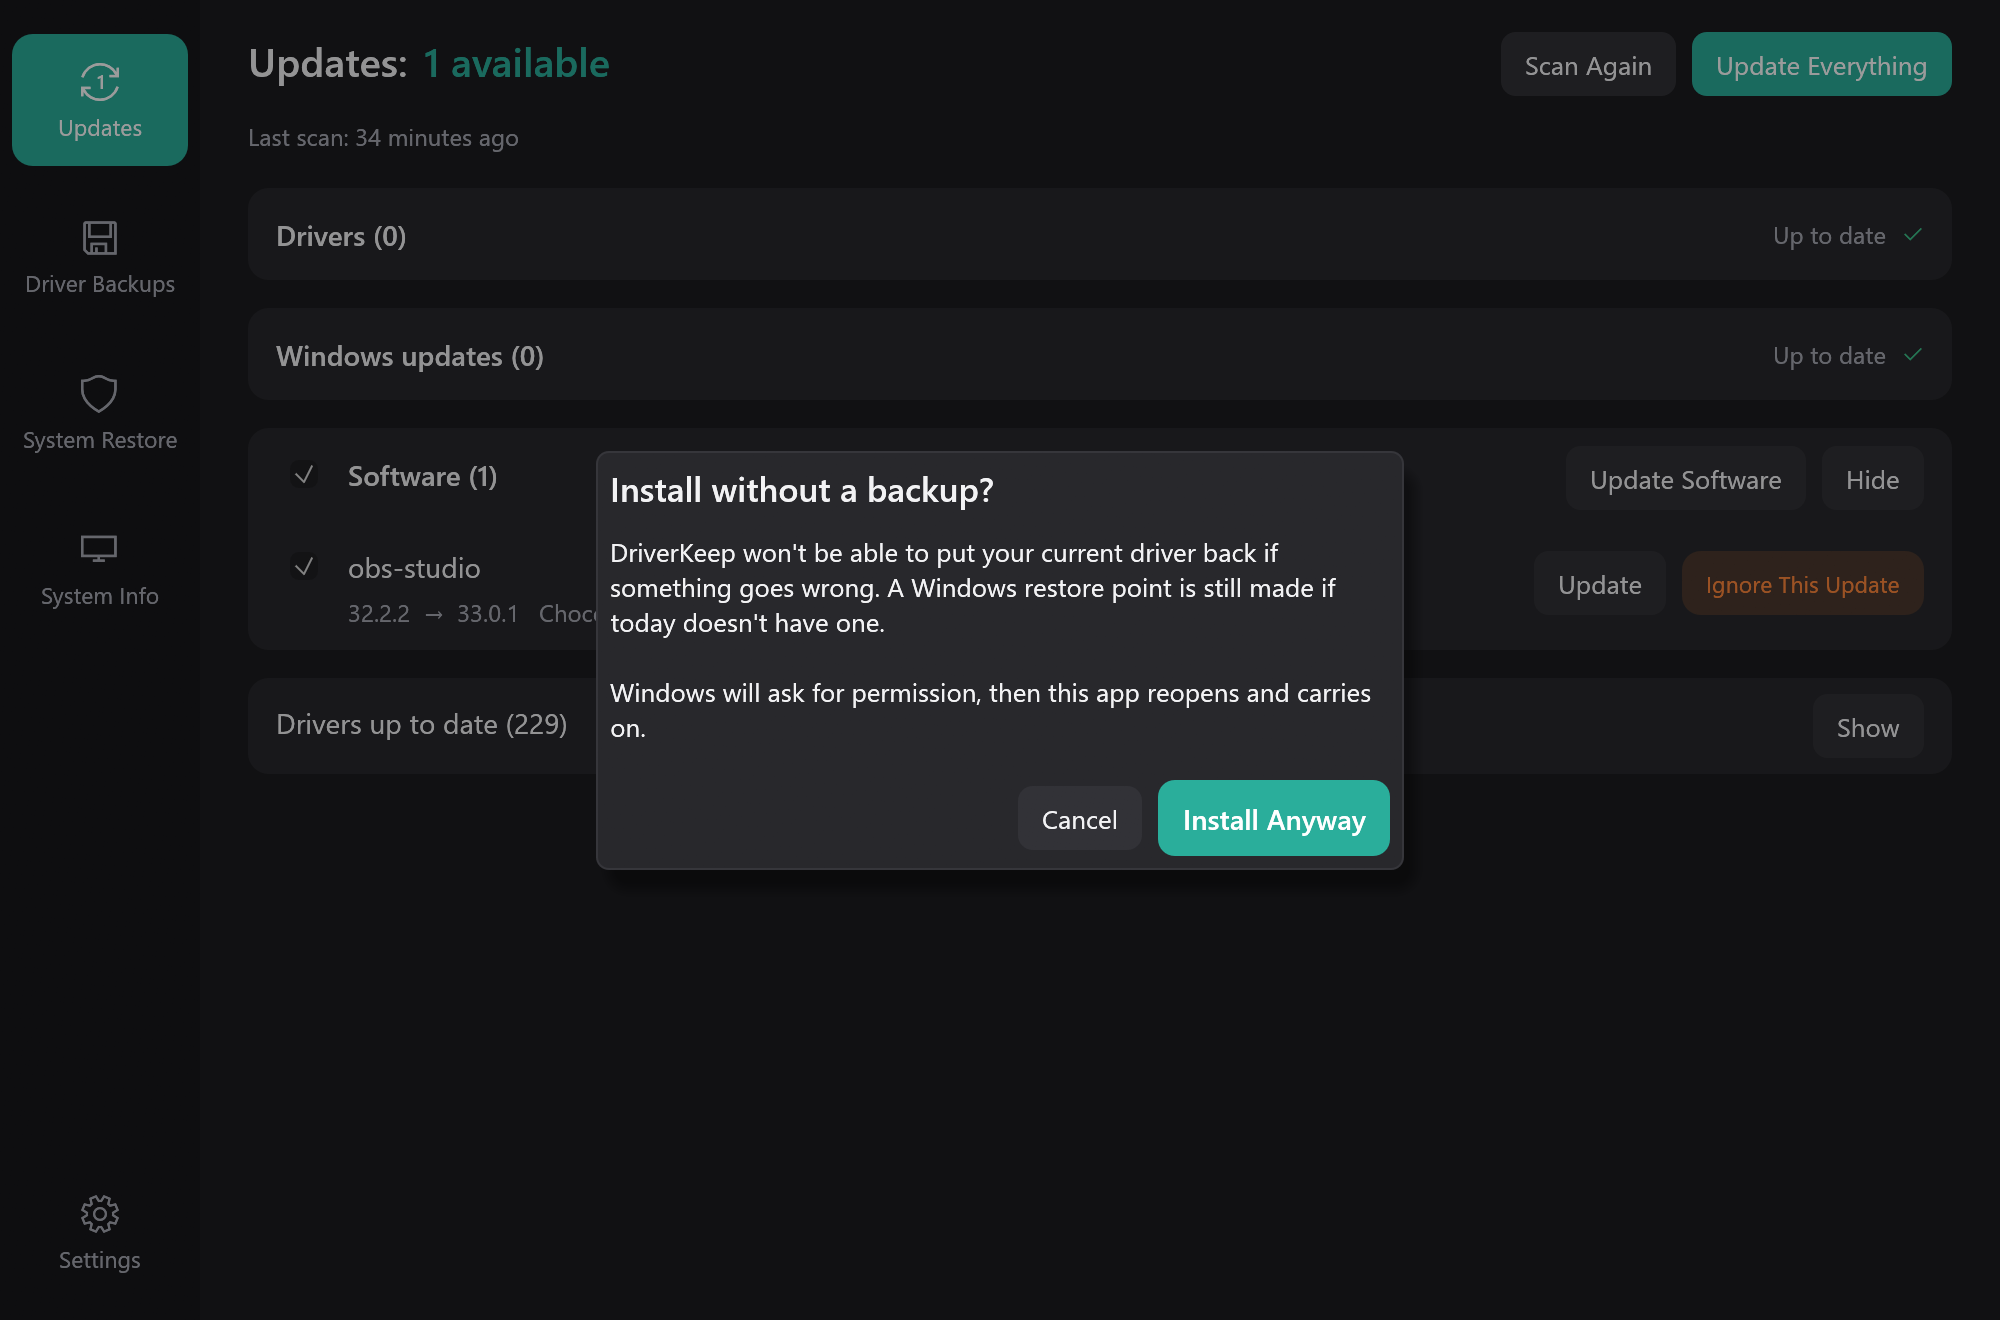
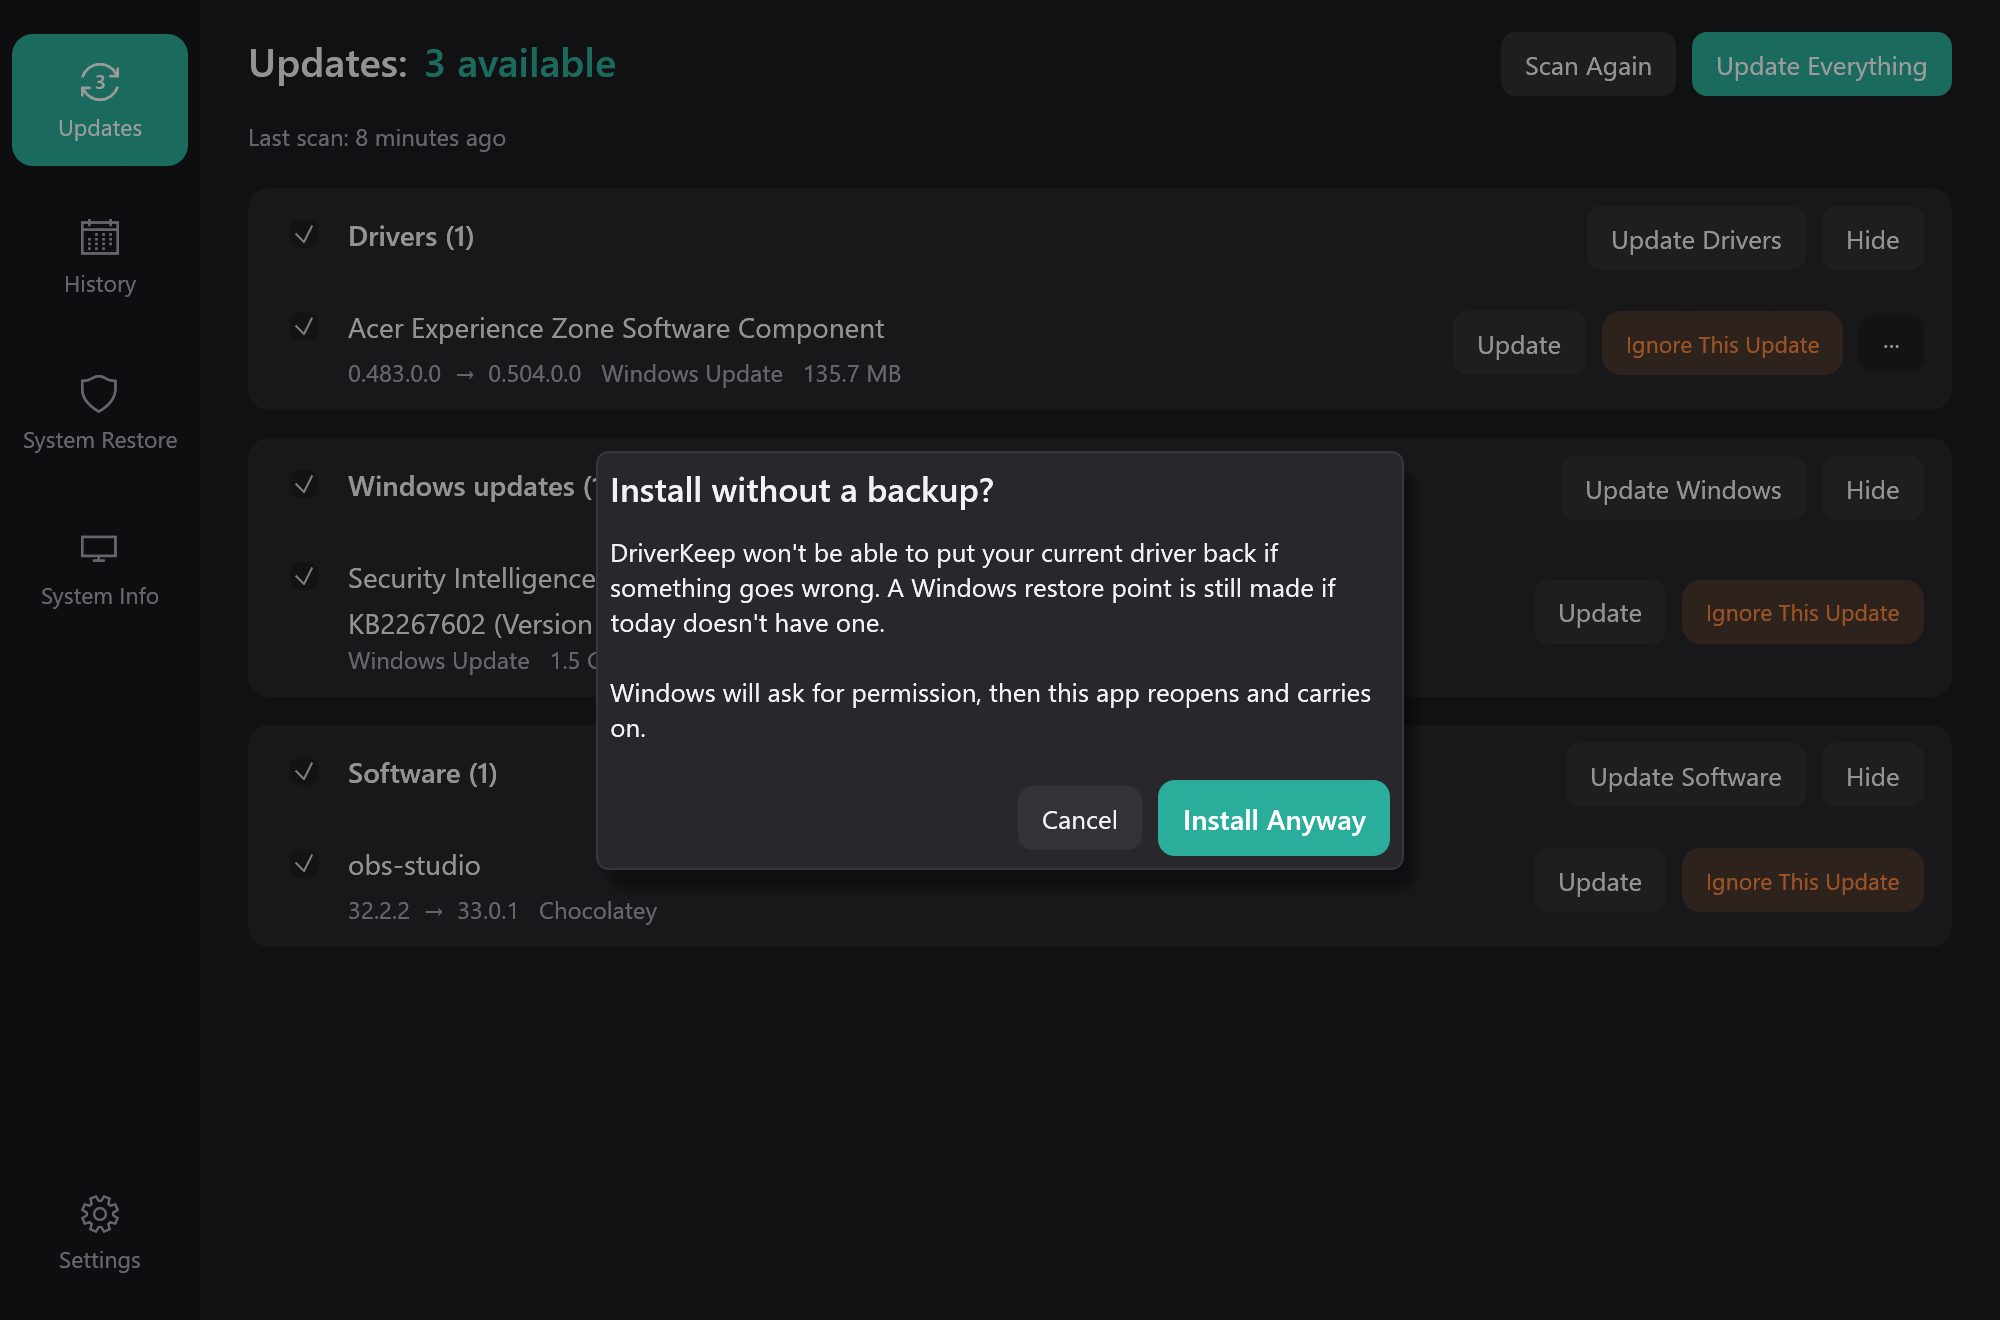
DriverKeep 1.0.25: History page, no up-to-date section, foldable hardware list, version in title

diff --git a/src/ui/drivers_page.rs b/src/ui/drivers_page.rs
@@ -2,10 +2,9 @@
 
 use super::look::*;
 use super::{App, Ask, Busy, Page, Row, Show};
-use crate::devices::{Device, OTHER_DEVICES_CLASS};
+use crate::devices::Device;
 use crate::wu::{ItemState, Kind, Source};
 use egui::{Align, Align2, FontId, Frame, Layout, Margin, RichText, Sense, Stroke, Vec2};
-use std::collections::HashSet;
 
 const GROUPS: [(Kind, &str, &str); 3] = [
     (Kind::Driver, "Drivers", "Update Drivers"),
@@ -374,9 +373,6 @@ impl App {
                     self.group_card(ui, group, &devices, &mut clicks);
                 }
             }
-            if self.settings.scan_drivers {
-                self.up_to_date(ui, &devices);
-            }
         });
         self.devices = devices;
 
@@ -399,43 +395,6 @@ impl App {
         if let Some(id) = clicks.ignore {
             self.ignore_update(id);
         }
-    }
-
-    fn up_to_date(&mut self, ui: &mut egui::Ui, devices: &[Device]) {
-        let updating: HashSet<&String> = self.rows.iter().flat_map(|r| r.update.devices.iter()).collect();
-        // The original's rule: everything except "Other devices" with no hardware id.
-        let mut fine: Vec<&Device> = devices
-            .iter()
-            .filter(|d| d.present && !d.system_item && !updating.contains(&d.instance_id))
-            .filter(|d| !d.class_guid.eq_ignore_ascii_case(OTHER_DEVICES_CLASS) || !d.hardware_ids.is_empty())
-            .collect();
-        fine.sort_by_key(|d| d.name.to_lowercase());
-        card().inner_margin(Margin::symmetric(14, 8)).show(ui, |ui| {
-            ui.set_width(ui.available_width());
-            let mut toggle = false;
-            let header = ui.horizontal(|ui| {
-                ui.label(RichText::new(format!("Drivers up to date ({})", fine.len())).size(14.0));
-                ui.with_layout(Layout::right_to_left(Align::Center), |ui| {
-                    // The same button as Hide on the other sections, so it's clear it can be clicked.
-                    toggle = secondary(ui, if self.show_uptodate { "Hide" } else { "Show" }, true);
-                });
-            });
-            if toggle || header.response.interact(Sense::click()).clicked() {
-                self.show_uptodate = !self.show_uptodate;
-            }
-            if self.show_uptodate {
-                ui.add_space(4.0);
-                for d in fine {
-                    ui.horizontal(|ui| {
-                        ui.label(RichText::new(d.name.clone()).size(13.0));
-                        ui.with_layout(Layout::right_to_left(Align::Center), |ui| {
-                            ui.label(icon(ICON_CHECK, 11.0, SUCCESS));
-                            ui.label(small(d.driver.as_ref().map(|x| x.version.clone()).unwrap_or_default()));
-                        });
-                    });
-                }
-            }
-        });
     }
 
     fn empty_drivers(&mut self, ui: &mut egui::Ui) {

diff --git a/src/ui/backups_page.rs b/src/ui/backups_page.rs
@@ -85,16 +85,11 @@ impl App {
             .filter(|d| self.backup_visible(d) && self.backup_picks.contains(&d.instance_id))
             .count();
         ui.horizontal(|ui| {
-            // Clicking the title or the count scrolls down to the saved backups.
             let saved = self.backups.len();
-            let title = egui::Label::new(RichText::new("Driver Backups:").font(bold(20.0))).sense(Sense::click());
-            let amount = egui::Label::new(RichText::new(format!("{saved} available")).font(bold(20.0)).color(teal()))
-                .sense(Sense::click());
-            let jump = ui.add(title).on_hover_cursor(egui::CursorIcon::PointingHand).clicked()
-                | ui.add(amount).on_hover_cursor(egui::CursorIcon::PointingHand).clicked();
-            if jump {
-                self.jump_to_backups = true;
-            }
+            ui.label(RichText::new("History:").font(bold(20.0)));
+            ui.label(
+                RichText::new(format!("{saved} driver backup{}", plural(saved))).font(bold(20.0)).color(teal()),
+            );
             ui.with_layout(Layout::right_to_left(Align::Center), |ui| {
                 let label = format!("Back Up {count} Driver{}", plural(count));
                 if primary_compact(ui, &label, count > 0 && self.busy == Busy::Idle) {
@@ -119,8 +114,16 @@ impl App {
                 self.choose_drivers(ui);
             }
             self.recent_changes(ui);
-            self.backup_list(ui);
-            self.day_updates(ui);
+            // Nothing sits below the calendar until a day is picked. Picking it again, or pressing
+            // Escape, puts it away.
+            if self.selected_day.is_some() {
+                if ui.input(|i| i.key_pressed(egui::Key::Escape)) {
+                    self.selected_day = None;
+                } else {
+                    self.backup_list(ui);
+                    self.day_updates(ui);
+                }
+            }
         });
     }
 
@@ -208,7 +211,7 @@ impl App {
         if self.history.is_empty() {
             return;
         }
-        heading(ui, "Changes");
+        heading(ui, "Calendar History");
         ui.add_space(2.0);
         let today = chrono::Local::now().date_naive();
         // How many Windows updates, drivers and programs were installed on each day.
@@ -357,11 +360,6 @@ impl App {
             }
         });
         ui.add_space(8.0);
-
-        if self.selected_day.is_none() {
-            soft(ui, "Pick a day to see the updates and backups from then. Pick it again to see every backup.");
-            ui.add_space(8.0);
-        }
     }
 
     /// One change: its name and versions, with Put Back where a backup was saved first, or a note

diff --git a/src/ui.rs b/src/ui.rs
@@ -154,7 +154,6 @@ pub struct App {
     flash_app_update: bool,
     discard: u32,
     notes: Vec<String>,
-    show_uptodate: bool,
     collapsed: HashSet<Kind>,
     tools: Option<(bool, bool)>,
     tools_installing: bool,
@@ -199,6 +198,8 @@ pub struct App {
     restore: Option<crate::restore::Info>,
     restore_job: Option<RestoreJob>,
     restore_gb: String,
+    /// The All hardware list on System Info is folded away until Show is pressed.
+    show_hardware: bool,
     restore_tried: bool,
     /// The Backups page was asked to scroll down to the saved backups.
     jump_to_backups: bool,
@@ -268,7 +269,6 @@ impl App {
             flash_app_update: false,
             discard: 0,
             notes: Vec::new(),
-            show_uptodate: false,
             collapsed: HashSet::new(),
             tools: None,
             tools_installing: false,
@@ -305,6 +305,7 @@ impl App {
             restore: None,
             restore_job: None,
             restore_gb: String::new(),
+            show_hardware: false,
             restore_tried: false,
             jump_to_backups: false,
             job_ids: Vec::new(),
@@ -316,7 +317,7 @@ impl App {
             preview_on: true,
             bring_forward: false,
             calendar_month: month_of(latest_change_day.unwrap_or_else(|| chrono::Local::now().date_naive())),
-            selected_day: latest_change_day,
+            selected_day: None,
             spin: 0.0,
             frames: 0,
             shot_sent: false,
@@ -1083,7 +1084,7 @@ impl App {
             self.open_rows()
         };
         self.rail_item(ui, Page::Drivers, ICON_DRIVERS, "Updates", badge, installing);
-        self.rail_item(ui, Page::Backups, ICON_BACKUP, "Driver Backups", 0, false);
+        self.rail_item(ui, Page::Backups, ICON_CALENDAR, "History", 0, false);
         self.rail_item(ui, Page::Restore, ICON_SHIELD, "System Restore", 0, false);
         self.rail_item(ui, Page::System, ICON_SYSTEM, "System Info", 0, false);
         let space = ui.available_height() - 80.0;

diff --git a/src/ui/system_page.rs b/src/ui/system_page.rs
@@ -69,7 +69,20 @@ impl App {
             });
 
             ui.add_space(8.0);
-            heading(ui, "All hardware");
+            // The full device list is long, so it's folded away until it's wanted.
+            let mut toggle = false;
+            ui.horizontal(|ui| {
+                heading(ui, "All hardware");
+                ui.with_layout(Layout::right_to_left(Align::Center), |ui| {
+                    toggle = secondary(ui, if self.show_hardware { "Hide" } else { "Show" }, true);
+                });
+            });
+            if toggle {
+                self.show_hardware = !self.show_hardware;
+            }
+            if !self.show_hardware {
+                return;
+            }
             ui.add_space(4.0);
             ui.horizontal_wrapped(|ui| {
                 ui.add(egui::TextEdit::singleline(&mut self.filter).hint_text("Search").desired_width(180.0));

diff --git a/src/system.rs b/src/system.rs
@@ -27,7 +27,7 @@ const RESTORE_LIMIT_VALUE: PCWSTR = w!("SystemRestorePointCreationFrequency");
 const RUN_KEY: PCWSTR = w!("Software\\Microsoft\\Windows\\CurrentVersion\\Run");
 
 pub fn window_title() -> String {
-    APP_NAME.to_string()
+    format!("{APP_NAME} {}", env!("CARGO_PKG_VERSION"))
 }
 
 /// True when this copy runs from the place the setup program installs to.

diff --git a/src/ui/look.rs b/src/ui/look.rs
@@ -129,6 +129,7 @@ pub const ICON_FONT: &str = "icons";
 pub const ICON_SCAN: &str = "\u{E721}";
 pub const ICON_SYSTEM: &str = "\u{E7F4}";
 pub const ICON_BACKUP: &str = "\u{E74E}";
+pub const ICON_CALENDAR: &str = "\u{E787}";
 pub const ICON_SETTINGS: &str = "\u{E713}";
 pub const ICON_DRIVERS: &str = "\u{E895}";
 pub const ICON_CHECK: &str = "\u{E73E}";

diff --git a/README.md b/README.md
@@ -23,11 +23,11 @@ A fast, simple Windows app that keeps your computer up to date in one place.
 | --- | --- |
 | ![Updates, light](screenshots/updates-light.png) | ![Updates, OLED](screenshots/updates-oled.png) |
 
-**Driver Backups, System Restore and System Info**
+**History, System Restore and System Info**
 
-| Driver Backups | System Restore |
+| History | System Restore |
 | --- | --- |
-| ![Driver Backups](screenshots/backups.png) | ![System Restore](screenshots/restore.png) |
+| ![History](screenshots/backups.png) | ![System Restore](screenshots/restore.png) |
 
 The System Restore picture uses made-up restore points. The real list needs administrator rights.
 
